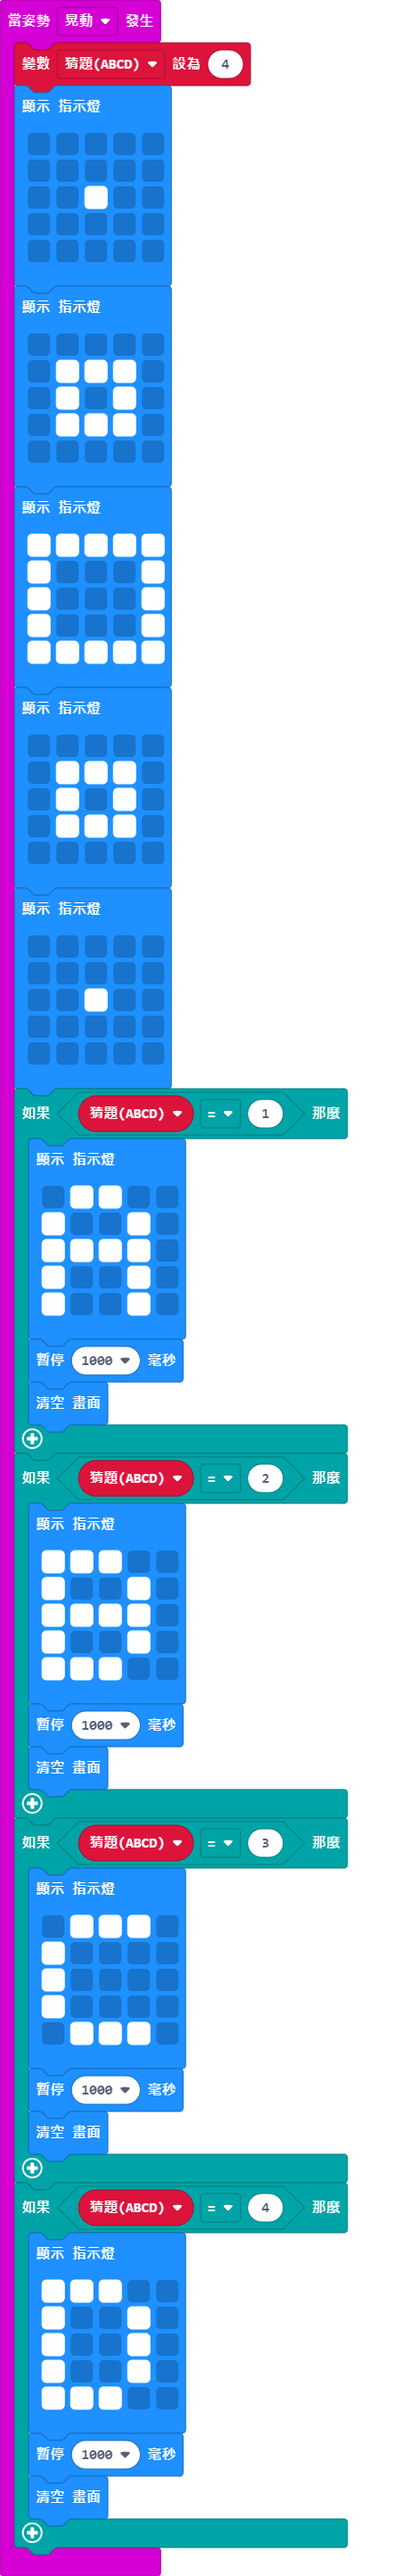
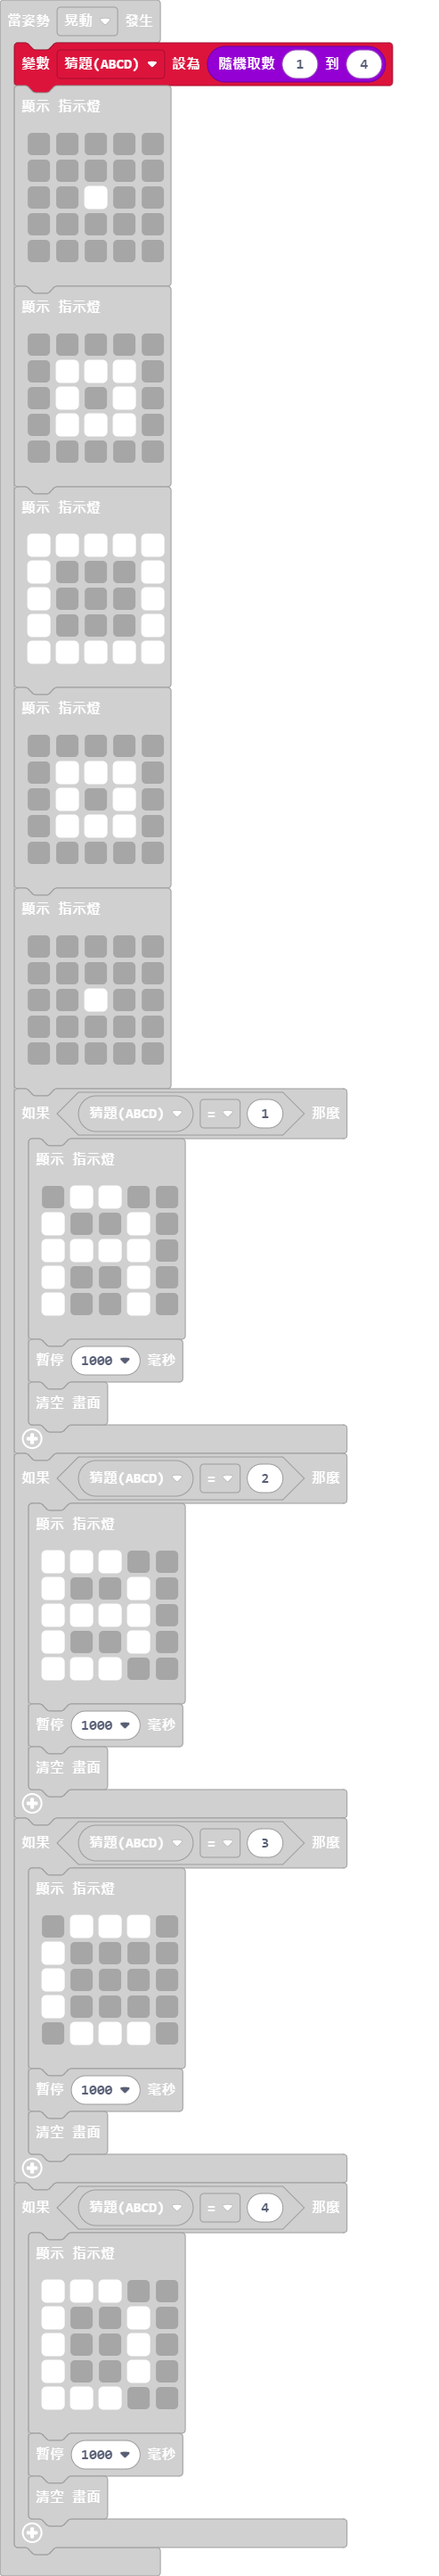
更新 main.blocks, main.ts

diff --git a/main.ts b/main.ts
@@ -56,7 +56,7 @@ input.onButtonPressed(Button.A, function () {
     }
 })
 input.onGesture(Gesture.Shake, function () {
-    猜題ABCD = 4
+    猜題ABCD = randint(1, 4)
     basic.showLeds(`
         . . . . .
         . . . . .
